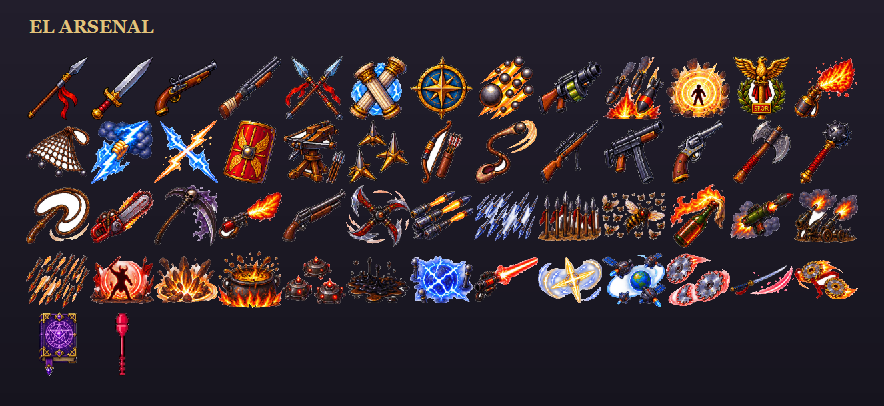
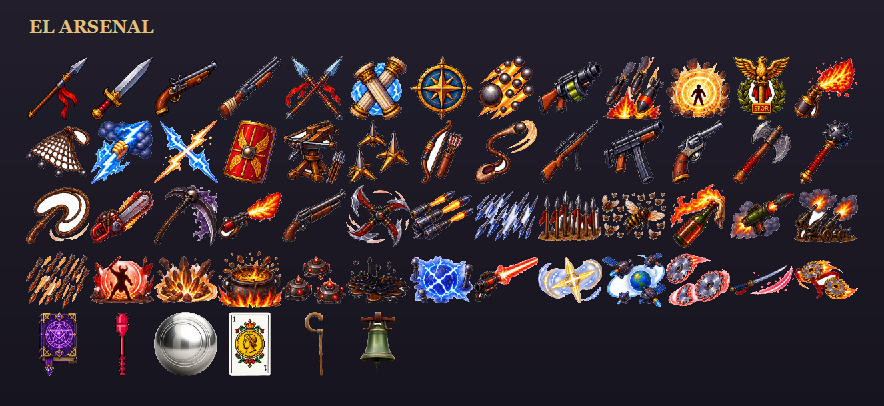
Los tres iconos que faltaban, y el token que sí estaba pero no se leía
El Cayado y la Campana ya tienen portada, y la Petanca cambia la suya. Las tres
son PROVISIONALES y está escrito al lado: no las ha dibujado Sergio. Las dos
nuevas salen de Replicate por la herramienta de la semana pasada, y la bola de
petanca deja de ser el sprite generado —a 32 píxeles sobre fondo oscuro era un
borrón gris que no se leía como nada— y pasa a ser un acero pulido con sus
estrías, que sí.

Y EL TOKEN NUEVO NO ESTABA MAL: estaba en UTF-16. En Windows PowerShell, un
`>>` sobre .env escribe cada letra seguida de un cero, así que leído como UTF-8
`REPLICATE_API_TOKEN` se convierte en `R\0E\0P\0L\0...` y deja de parecerse a
la clave que se busca. Lo peor fue cómo se manifestó: como no se reconocía esa
línea, se seguía usando una vieja que había debajo con un token ya revocado —la
API contestaba 401 y todo apuntaba a que el token era malo, cuando lo que
fallaba era la codificación.

Ahora el .env se lee en crudo y se le quitan los bytes nulos, así que da igual
con qué codificación lo escriba quien lo escriba. Y de paso el fichero queda con
una sola línea, en UTF-8, sin los tres tokens apilados que tenía.

Claude-Session: https://claude.ai/code/session_016RbRENmcz8mnG6uoihvh4d

Changed region(s): [[0.1527, 0.7685, 0.3054, 0.9458], [0.3971, 0.7685, 0.4581, 0.8867], [0.336, 0.7685, 0.3665, 0.8867]]

diff --git a/herramientas/generar-imagen.js b/herramientas/generar-imagen.js
@@ -68,11 +68,25 @@ REPLICATE_API_TOKEN=r8_... del fichero .env de la raíz (que no se versiona).
 // El .env, leído a mano. No hace falta una librería para partir por el primer
 // '=' de cada línea, y meter una dependencia en un proyecto que presume de no
 // tener ninguna, por esto, sería empezar por el peor sitio.
+// SE LEE EN CRUDO Y SE LE QUITAN LOS BYTES NULOS, y esto no es paranoia: en
+// Windows PowerShell, `echo algo >> .env` escribe en UTF-16, o sea cada letra
+// seguida de un cero. Leido como UTF-8, `REPLICATE_API_TOKEN` se convierte en
+// `R\0E\0P\0L\0...` y deja de parecerse a la clave que se busca.
+//
+// Paso, y lo peor fue como se manifesto: el token nuevo estaba en el fichero,
+// escrito asi, y como no se reconocia la clave se seguia usando una linea vieja
+// que habia debajo con un token ya revocado. La API contestaba 401 y todo
+// apuntaba a que el token era malo, cuando lo que fallaba era la codificacion.
+// Quitando los nulos, las dos codificaciones se leen igual.
 function leerEnv() {
   const ruta = join(RAIZ, '.env');
   if (!existsSync(ruta)) return {};
+  const crudo = readFileSync(ruta)
+    .toString('latin1')
+    .split('').filter((c) => c !== '\u0000').join('')
+    .replace(/^\uFEFF/, '');
   const valores = {};
-  for (const linea of readFileSync(ruta, 'utf8').split('\n')) {
+  for (const linea of crudo.split('\n')) {
     const limpia = linea.trim();
     if (!limpia || limpia.startsWith('#')) continue;
     const corte = limpia.indexOf('=');
